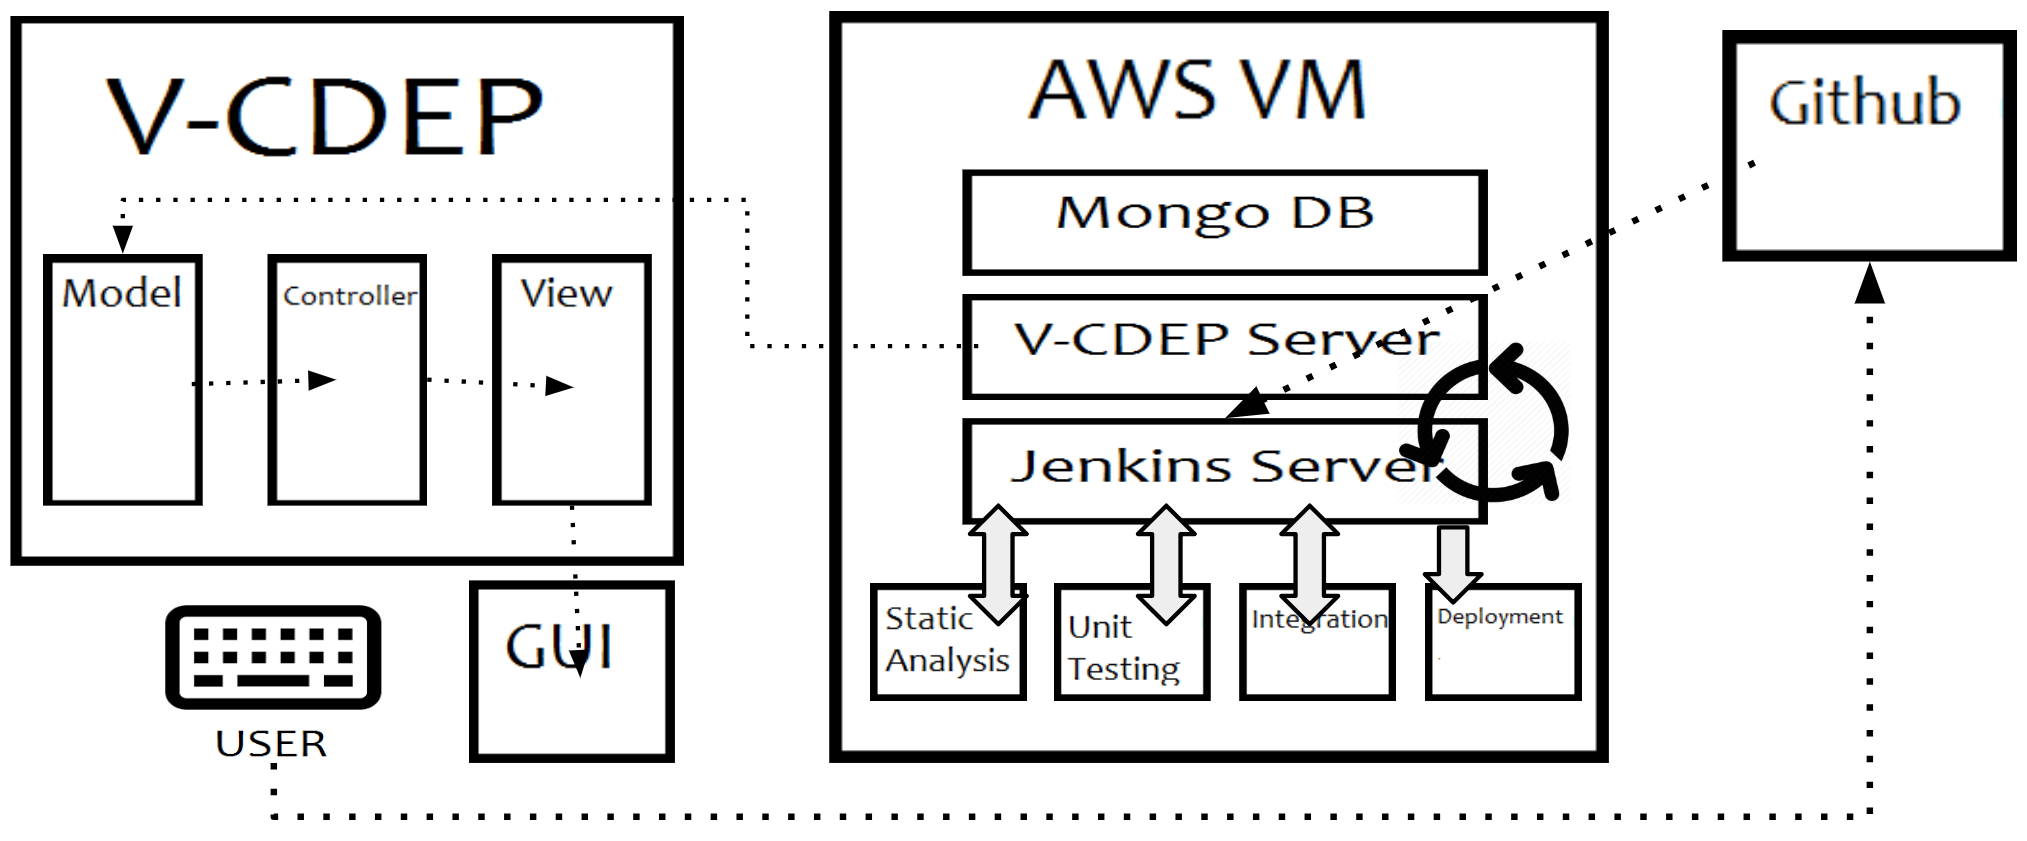
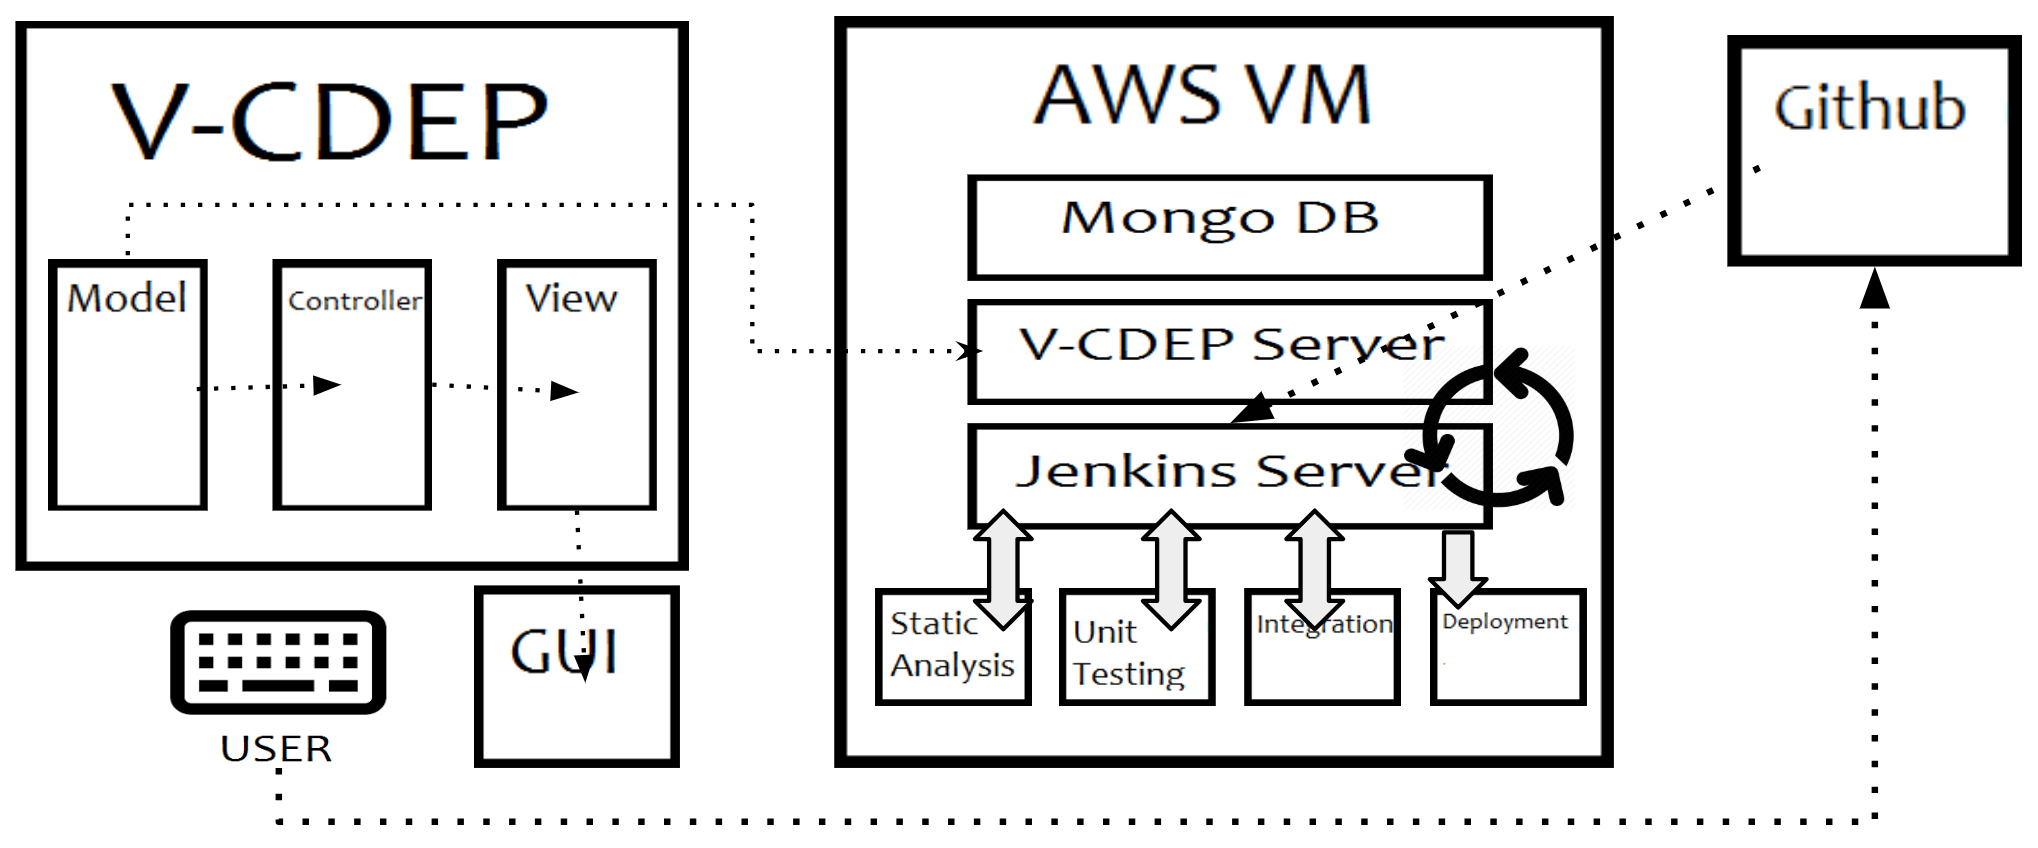
Updated about page with vcdep overview

diff --git a/src/components/about.js b/src/components/about.js
@@ -26,10 +26,14 @@ export default class About extends Component {
           which is designed to be easy and customizable for instructors to setup
           and use. Our CDEP tool uses the open source continuous integration
           tool <a href="https://jenkins.io/">Jenkins</a> to orchestrate testing
-          students's software. It supports two project types: PHP and Java
-          Desktop applications. It uses static analysis, unit, and integration
-          testing tools like PHPUnit and JUnit for performing Continuous
-          Integration. The CDEP tool is automated using Docker Compose for
+          students's software. It supports two project types:{' '}
+          <a href="http://php.net/">PHP</a> and{' '}
+          <a href="https://java.com/en/download/">Java</a> Desktop applications.
+          It uses static analysis, unit, and integration testing tools like{' '}
+          <a href="https://phpunit.de/">PHPUnit</a> and{' '}
+          <a href="https://junit.org/junit5/">JUnit</a> for performing
+          Continuous Integration. The CDEP tool is automated using{' '}
+          <a href="https://docs.docker.com/compose/">Docker Compose</a> for
           creating immutable containers that handle all the configuration
           needed. It requires a config.json file to be placed in the root folder
           of a project. This config file contains information about the type of
@@ -37,12 +41,12 @@ export default class About extends Component {
           flow of instructions can be seen in the above figure. The system is
           kicked off from a notification from the version control system that a
           change has been made to the project. This tells Jenkins to start
-          testing by using Docker to create the necessary containers based off
-          of the config.json file. If all the tests pass, the version control
-          system's main branch is updated with the new changes made and the
-          staging environment is also updated so QA testing can be done. If one
-          of the test fails, the entire process is terminated and the developer
-          is notified.
+          testing by using <a href="https://www.docker.com/">Docker</a> to
+          create the necessary containers based off of the config.json file. If
+          all the tests pass, the version control system's main branch is
+          updated with the new changes made and the staging environment is also
+          updated so QA testing can be done. If one of the test fails, the
+          entire process is terminated and the developer is notified.
           <figure className="figure">
             <img
               src="./images/vcdep_overview.png"
@@ -54,11 +58,31 @@ export default class About extends Component {
             </figcaption>
           </figure>
           <br />
-          Pilot Study:{' '}
-          <a href="https://ieeexplore.ieee.org/document/8166682/">
-            here
-          </a> CDEP:{' '}
-          <a href="https://dl.acm.org/citation.cfm?id=3077301">here</a>
+          The above figure shows the flow of data for the VCDEP system. With the
+          VCDEP system, a student first launches the VCDEP application and
+          inputs all of the information about their project. Once all of the
+          information is entered, the application starts polling the VCDEP
+          server, which stores the most recent build of the CDEP system for
+          their project. The student then makes a change to their project and
+          commits it to their version control server, in our case it is GitHub.
+          The CDEP system detects the change and follows the first figure's flow
+          of events as discussed previously. The VCDEP server is notfied once
+          the CDEP system finishes the build and VCDEP server collects that
+          build's logfile. With the logfile collected, the next time the
+          student's application polls the VCDEP server it will be given the new
+          logfile that contains all of the information the student needs. The
+          information is parsed on the student's application and then animations
+          and scripts are displayed to the student to help them understand what
+          took place.
+          <br />
+          <br />
+          <b>
+            You can read more about our tools and the studies we performed in
+            our pilot study paper located{' '}
+            <a href="https://ieeexplore.ieee.org/document/8166682/">here</a> and
+            our second study paper{' '}
+            <a href="https://dl.acm.org/citation.cfm?id=3077301">here</a>.
+          </b>
         </p>
       </div>
     );
